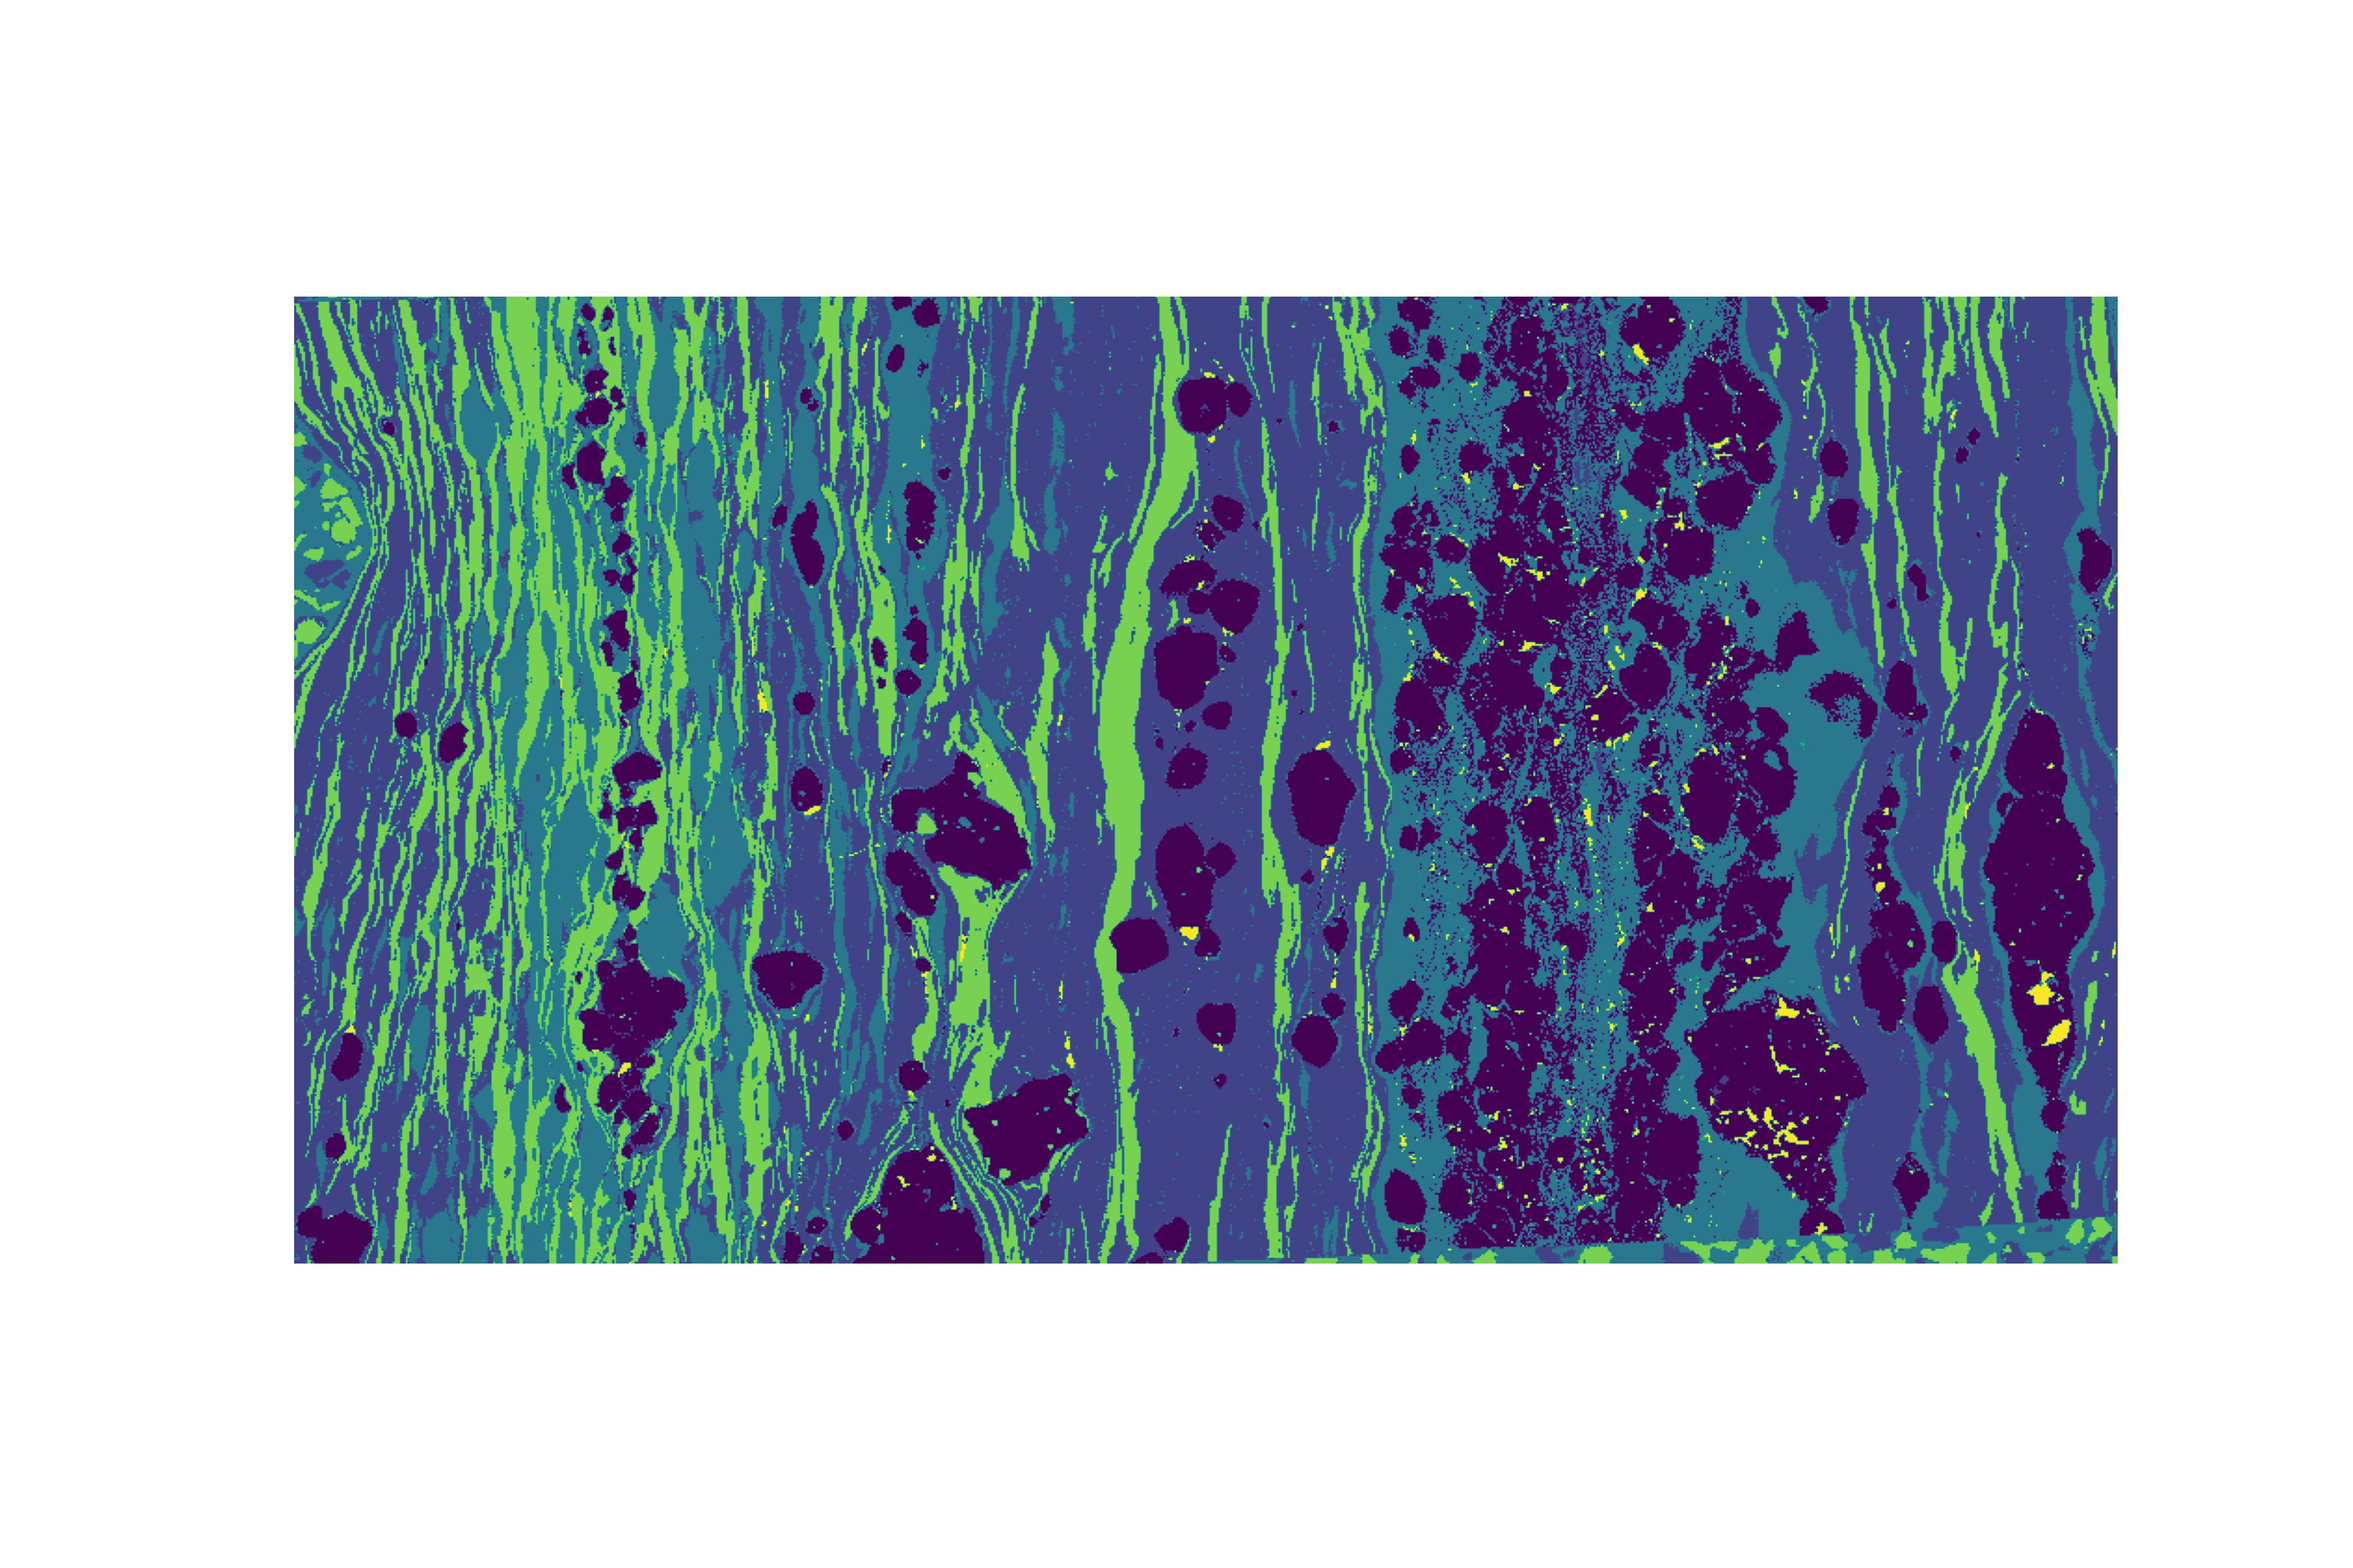
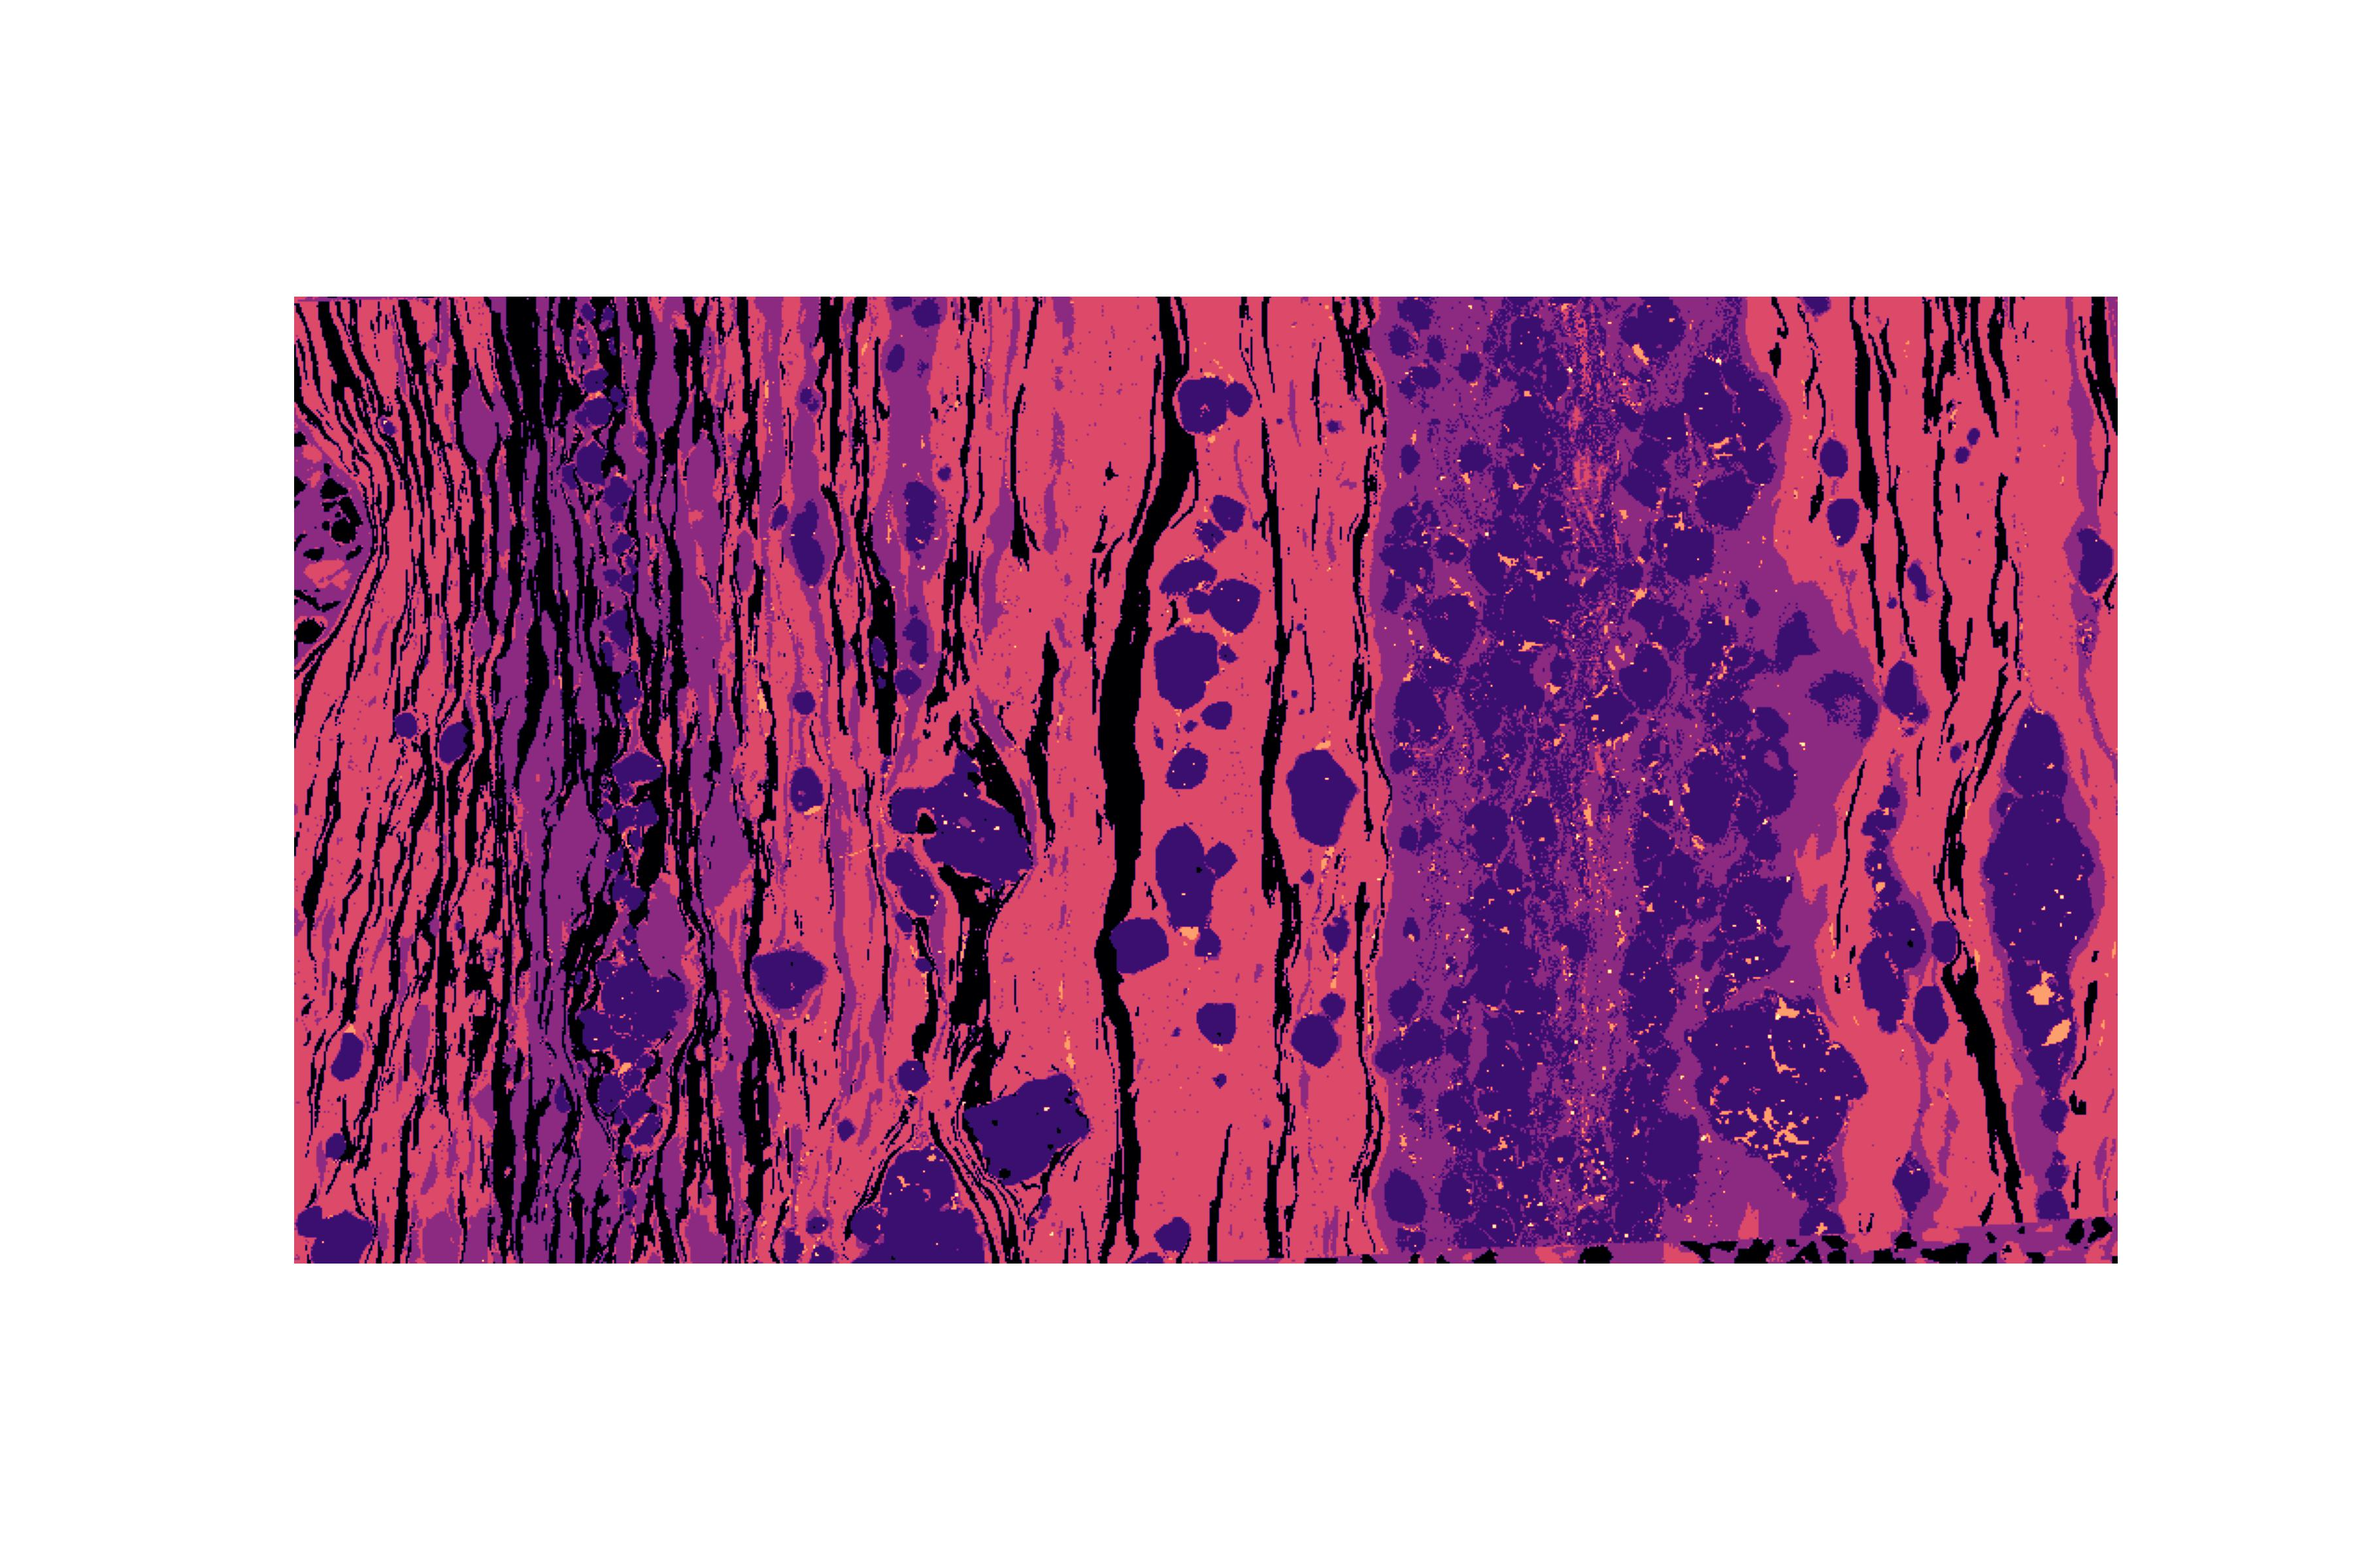
added colourmap option to the plotting methods, added two docstrings

diff --git a/xrf_cluster.py b/xrf_cluster.py
@@ -6,13 +6,14 @@ TO DO LIST:
     
     5. Make docstrings!
     6. Build a method to score the clustering based on existing results.
-    8. Figure out how to set a colour pallate for the images
     9. Update everything for actual data.
     10. Maybe change how we deal with images so it is easy to save and export them after the fact,
     that said, generating the images takes so little time, so perhaps we don't need to carry
     them in memory.
     11. Revise save stats to not rely on numpy
     12. Figure out how to build a file with a neat folderset
+    13. Define a method for picking colours for individual clusters as opposed to just setting default colur maps
+    14. Create a cluster dictionary containing "name" and "colour" (maybe more) to be set by users later
     
 DONE LIST
     1. update plot_clusters so that binary plots of cluster vs all can be made
@@ -22,6 +23,7 @@ DONE LIST
     3. Clean up the image output (e.g. no ticks, no tick labels, no apron, etc)
     4. Create the methods get_stats() and save_stats()
     7. Create save_maps() method or methods #actually just added save argument to the plotting image methods
+    8. Figure out how to set a colour pallate for the images
 """
 import PIL
 import numpy as np
@@ -51,10 +53,27 @@ class XRF_cluster():
     
     
     def set_folderpath(self, folderpath):
+        """
+        Sets or resets the path to the folder containing XRF data
+
+        Parameters
+        ----------
+        folderpath : str, directory
+            The complete or relative path to the directory containing XRF data.
+        """
         #This method is only really necessary if the folderpath becomes a private or protected variable
         self.folderpath = folderpath
 
     def set_suffix(self, suffix):
+        """
+        Sets the file suffix for files containing XRF data (e.g., .txt, .jpg, .csv,
+        etc.). self._suffix may be depreciated, and if so this method will be unnecessary
+
+        Parameters
+        ----------
+        suffix : str
+            The file suffix of files containing XRF data, likely ".txt", perhaps ".bpm".
+        """
         self._suffix = suffix
 
     def _identify_files(self):
@@ -169,7 +188,7 @@ class XRF_cluster():
         #Saving to a class attribute
         self._clusters = kmn_pred
         
-    def _display(self, phase_list = None, save = False, filepath = None):
+    def _display(self, phase_list = None, save = False, filepath = None, cmap = 'viridis'):
         #Displays the array, we could add the option to select colours here as well
         displayed_element = None
         if phase_list is None:
@@ -195,13 +214,13 @@ class XRF_cluster():
         fig.patch.set_visible(False) #removing the white apron
         
         if save == True:
-            plt.imshow(phase_list)
+            plt.imshow(phase_list, cmap=cmap)
             plt.savefig(fname = filepath, dpi = 600)
         if save == False:
-            plt.imshow(phase_list)
+            plt.imshow(phase_list, cmap=cmap)
         
     
-    def plot_clusters(self, cluster = None, save = False):
+    def plot_clusters(self, cluster = None, save = False, cmap = 'viridis'):
         #A method that shows an image of the classified clusters
         #must be updated to show more than one cluster if requested
         #clusters = []
@@ -209,9 +228,9 @@ class XRF_cluster():
         if cluster == None:
             #Plotting the full phasemap together by calling the default of display
             if save == True:
-                    self._display(save = True)
+                    self._display(save = True, cmap=cmap)
             elif save == False:
-                    self._display()
+                    self._display(cmap=cmap)
             return
         
         elif cluster == 'All' or cluster == 'all' or cluster == 'ALL':
@@ -406,6 +425,6 @@ if __name__ == "__main__":
                      outpath="Example data/test_output/NW13-33/")
     module_test.fit()
     module_test.cluster(clusters = 6)
-    module_test.plot_clusters(cluster = None, save = True)
+    module_test.plot_clusters(cluster = None, save = True, cmap='magma')
     module_test.get_stats()
     module_test.save_stats()
